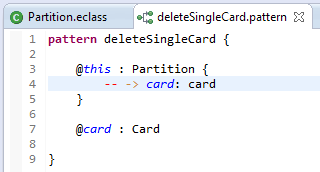
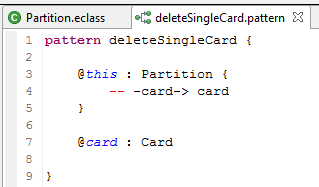
Exchange screenshot

diff --git a/Handbook/03_storyDiagrams/03_removeCard/texRemoveCard.tex b/Handbook/03_storyDiagrams/03_removeCard/texRemoveCard.tex
@@ -80,7 +80,7 @@ while \texttt{card} is bound to the value of the parameter with the same name.
 \end{figure}
 
 \item[$\blacktriangleright$] Object variable scopes determine the changes to be applied to the any exiting references of the variable. Therefore, add:
-\syntax{-- -> card:card} to \texttt{@this} to destroy the \texttt{card} reference targeting the \texttt{card} object. Your pattern should now resemble
+\syntax{-- -card-> card} to \texttt{@this} to destroy the \texttt{card} reference targeting the \texttt{card} object. Your pattern should now resemble
 Fig.~\ref{eclipse:deleteReference}. 
 
 \begin{figure}[htp]

diff --git a/Handbook/03_storyDiagrams/06_emptyPartition/texEmptyCards.tex b/Handbook/03_storyDiagrams/06_emptyPartition/texEmptyCards.tex
@@ -6,7 +6,8 @@
 \begin{itemize}
  
 \item[$\blacktriangleright$] To initialize your new control flow, you can once again take advantage of eMoflon's auto completion. Inside the
-\texttt{empty} declaration, press  \texttt{Ctrl + spacebar} and select \texttt{forEach} from the menu (Fig.~\ref{eclipse:typeCompletion}).
+\texttt{empty} declaration, press  \texttt{Ctrl + Space} and select
+\texttt{forEach} from the menu (Fig.~\ref{eclipse:typeCompletion}).
 
 \vspace{1cm}
 
